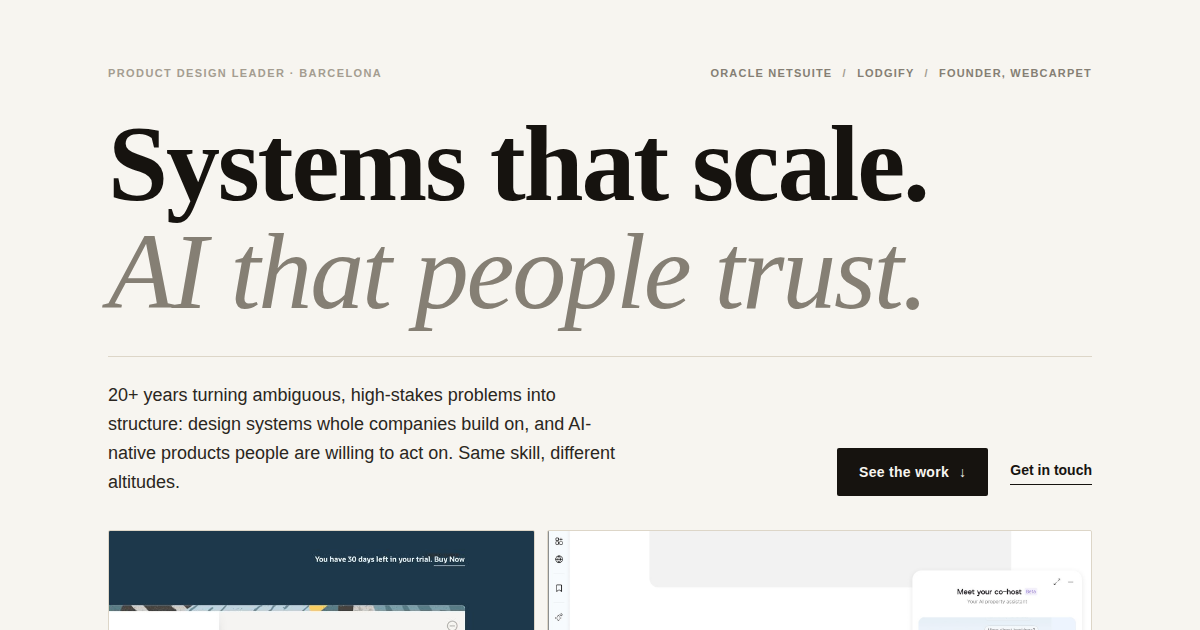
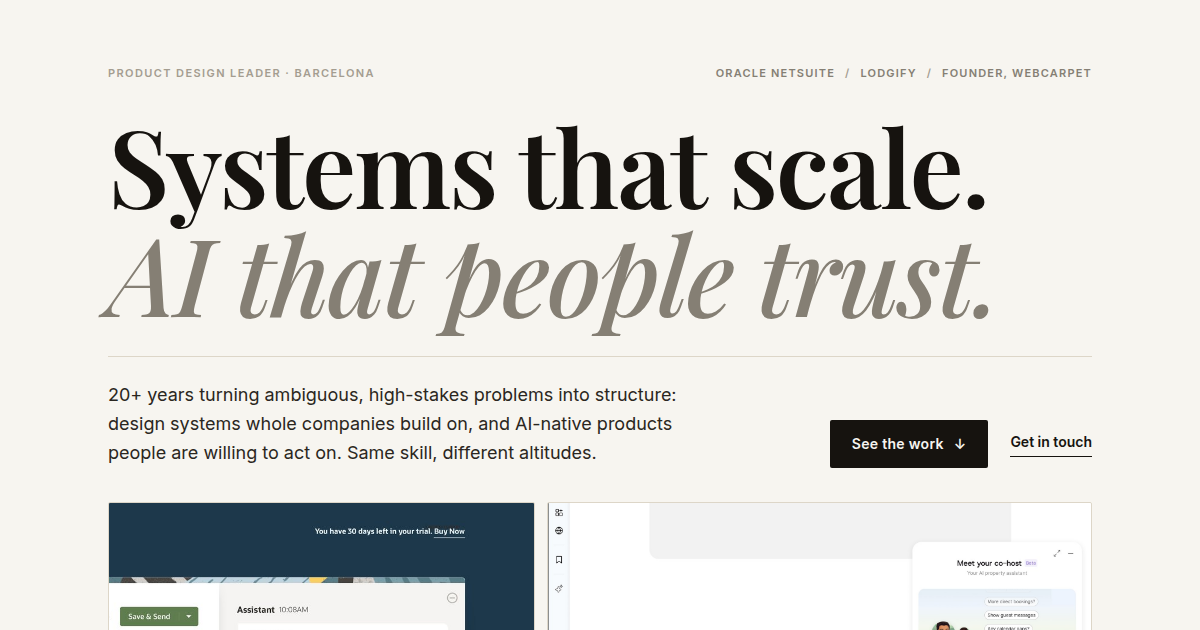
Add LinkedIn link to home contact; re-render link preview with real fonts
Claude-Session: https://claude.ai/code/session_01C6ee1zXA77t8X8bqW6Rm8z

diff --git a/index.html b/index.html
@@ -219,7 +219,7 @@ li { margin-bottom: 10px; }
 .rec-arrow-btn:focus-visible { outline: 2px solid var(--heading); outline-offset: 2px; }
 
 /* ---------- Contact strip (home) ---------- */
-.contact-strip { display: flex; align-items: center; gap: 14px; flex-wrap: wrap; }
+.contact-strip { display: flex; align-items: center; gap: 14px 36px; flex-wrap: wrap; }
 .contact-strip a {
   font-size: 18px; text-decoration: none; color: var(--heading); border-bottom: 1px solid var(--fg);
   padding-bottom: 2px; display: inline-flex; align-items: center; gap: 10px;
@@ -727,6 +727,7 @@ figure { margin: 0; }
     <hr class="rule" style="margin-bottom:24px;">
     <div class="contact-strip">
       <a href="mailto:marcverdera@gmail.com">marcverdera@gmail.com <span class="arrow">&#8599;</span></a>
+      <a href="https://linkedin.com/in/marcverdera" target="_blank" rel="noopener">LinkedIn <span class="arrow">&#8599;</span></a>
     </div>
   </div>
 </section>
